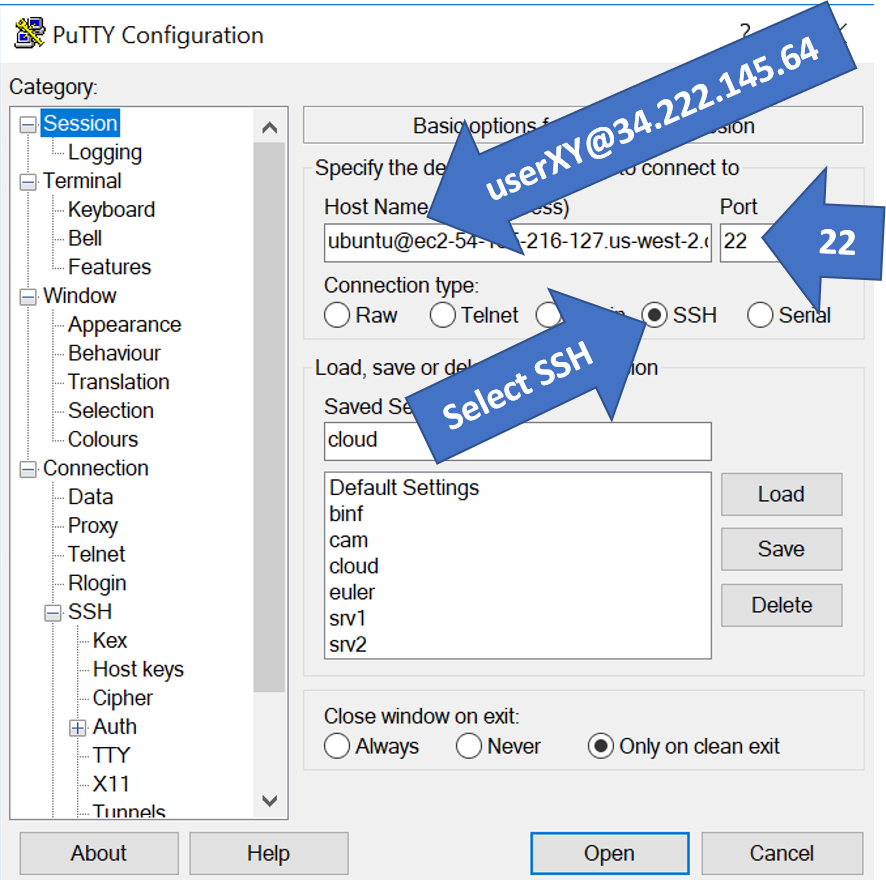
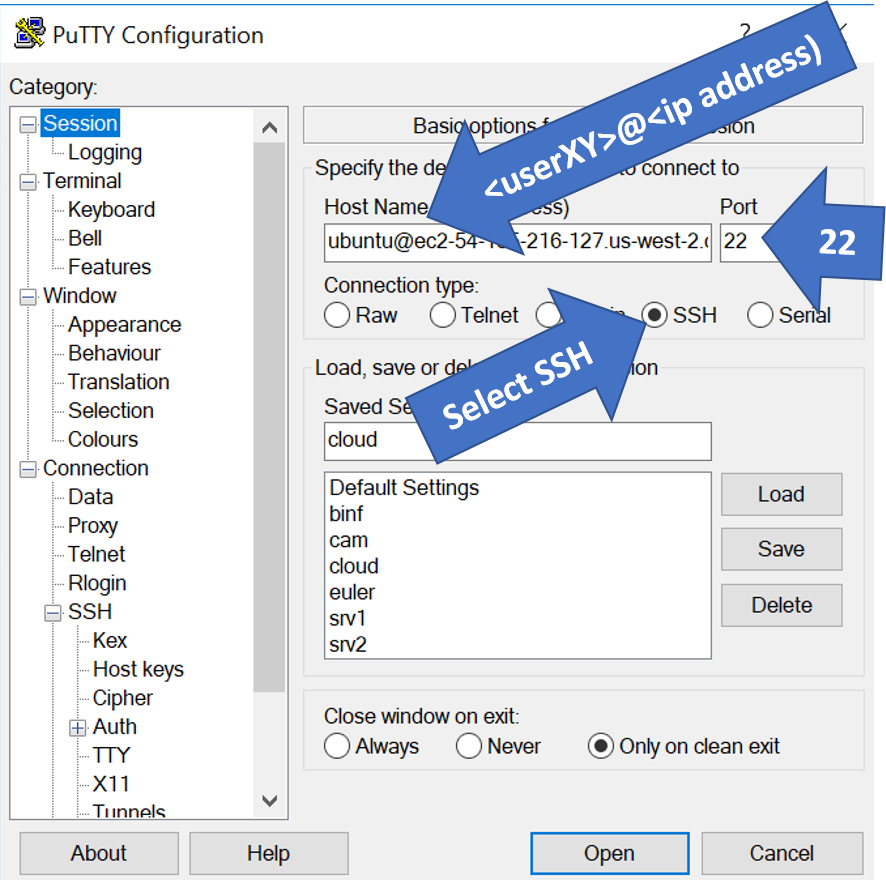
update putty info

Changed region(s): [[0.5485, 0.0307, 0.9447, 0.2455]]

diff --git a/_pages/0_Logging_on.md b/_pages/0_Logging_on.md
@@ -71,7 +71,7 @@ Then save your key and click on YES to dismiss the Warning as shown below.
 
 ![](/images/putty/fig3.png)
 
-Now, enter your user name and the DNS in the format \<user_name\>@\<public_dns_name\>. Enter 22 as Port and make sure that SSH is selected.
+Great, now your key file is ready and we can start Putty. In Putty, enter your user name and the DNS in the format \<user_name\>@\<IP adress\>. Make sure to add your user name and the IP address that we give to you. Enter 22 as Port and make sure that SSH is selected.
 
 ![](/images/putty/fig4.png)
 
